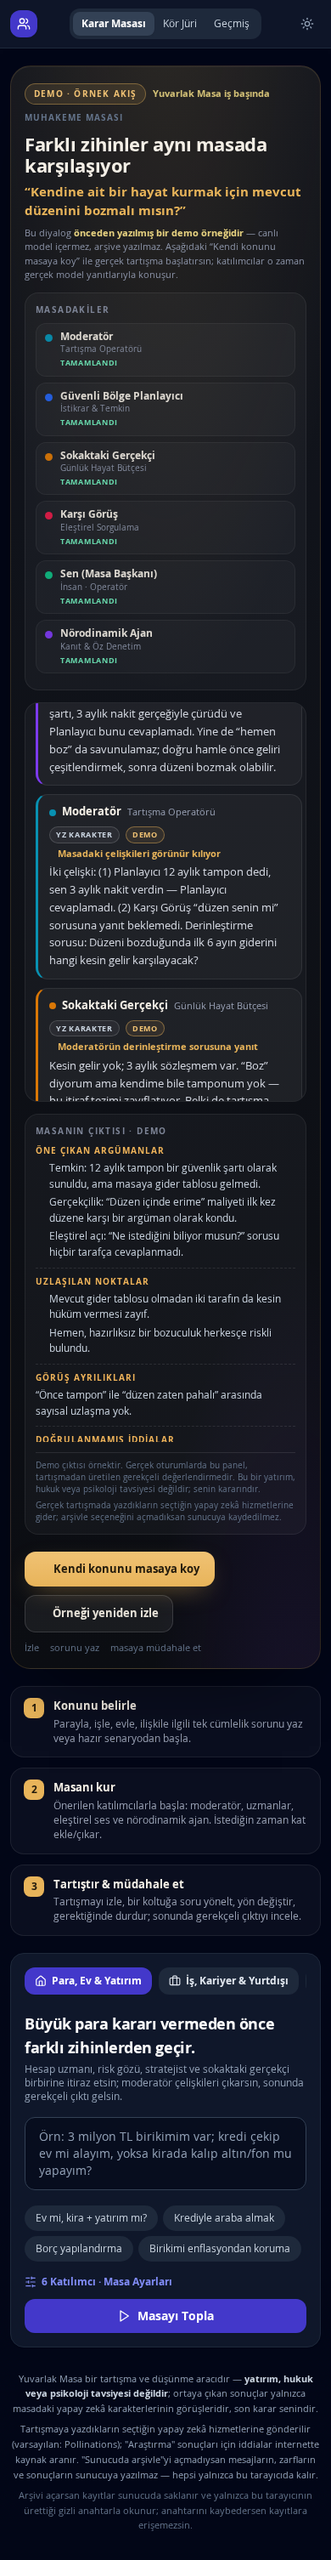
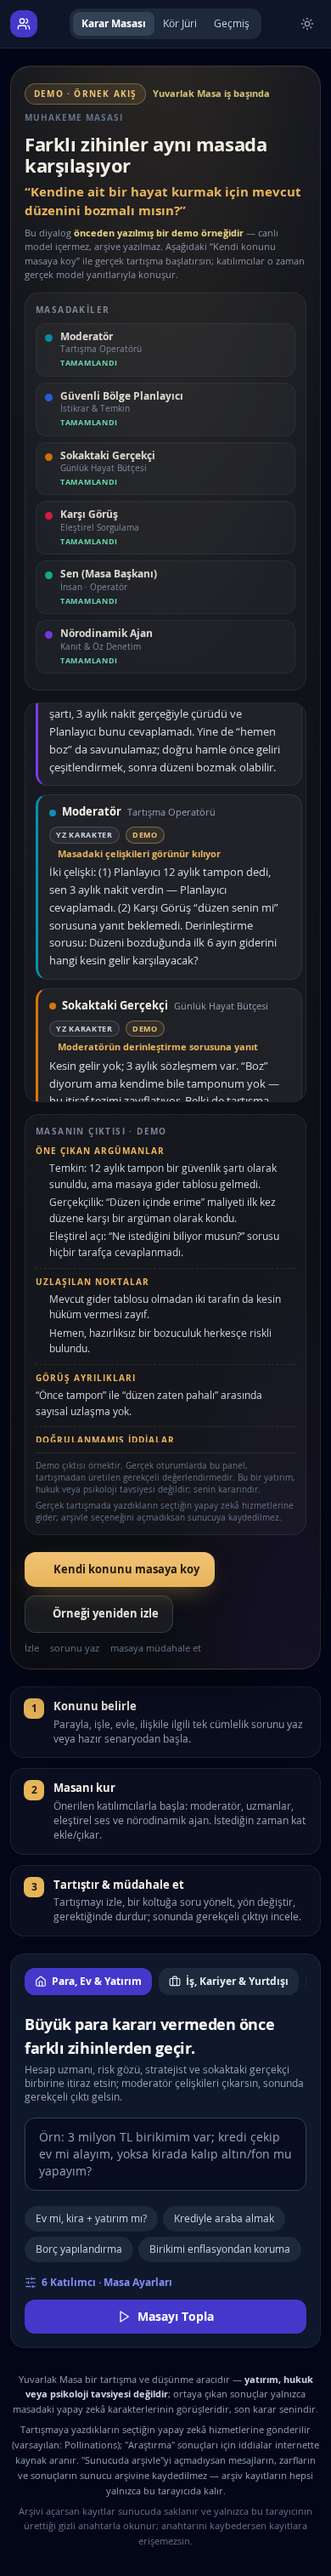
v2.7: gizlilik ifadelerini dürüstleştir (arşiv kaydı iletimi ayır), ekran görüntüleri tazele

diff --git a/static/index.html b/static/index.html
@@ -391,7 +391,7 @@
             <input id="optInnerVoice" type="checkbox" class="rounded border-slate-300 text-brand-600 focus:ring-brand-500" />
             <span>İç sesleri göster</span>
           </label>
-          <label class="inline-flex items-center gap-1.5 cursor-pointer select-none" title="Varsayılan kapalıdır: açıkken tartışma mesajları, zarflar ve sonuç sunucuya yazılır; sunucudaki kayıtları yalnızca bu tarayıcının anahtarı okuyabilir. Kapalıyken hiçbir şey sunucuya yazılmaz.">
+          <label class="inline-flex items-center gap-1.5 cursor-pointer select-none" title="Varsayılan kapalıdır: açıkken tartışma mesajları, zarflar ve sonuç sunucu arşivine yazılır; arşiv kayıtlarını yalnızca bu tarayıcının anahtarı okuyabilir. Kapalıyken sunucu arşivine hiçbir şey yazılmaz (mesajların yine seçtiğin yapay zekâ hizmetine iletilir).">
             <input id="optArchive" type="checkbox" class="rounded border-slate-300 text-brand-600 focus:ring-brand-500" />
             <span>Sunucuda arşivle</span>
           </label>
@@ -563,7 +563,7 @@
     <p class="text-[11px] leading-relaxed text-slate-500 dark:text-slate-400">
       Tartışmaya yazdıkların seçtiğin yapay zekâ hizmetlerine gönderilir (varsayılan: Pollinations);
       "Araştırma" sonuçları için iddialar internette kaynak aranır.
-      "Sunucuda arşivle"yi açmadıysan mesajların, zarfların ve sonuçların sunucuya yazılmaz — hepsi yalnızca bu tarayıcıda kalır.
+      "Sunucuda arşivle"yi açmadıysan mesajların, zarfların ve sonuçların sunucu arşivine kaydedilmez — arşiv kayıtların hepsi yalnızca bu tarayıcıda kalır.
     </p>
     <p class="text-[11px] leading-relaxed text-slate-400 dark:text-slate-500">
       Arşivi açarsan kayıtlar sunucuda saklanır ve yalnızca bu tarayıcının ürettiği gizli anahtarla okunur; anahtarını kaybedersen kayıtlara erişemezsin.
@@ -2388,7 +2388,7 @@
           listEl.innerHTML = `
             <div class="bg-white dark:bg-slate-900 border border-slate-200 dark:border-slate-800 rounded-2xl p-8 text-center space-y-3">
               <p class="text-sm font-semibold text-slate-700 dark:text-slate-200">Henüz kayıtlı bir görüşmeniz yok.</p>
-              <p class="text-xs text-slate-500 dark:text-slate-400">Karar Masası'nda başlattığın görüşmeler varsayılan olarak yalnızca senin tarayıcında saklanır. "Sunucuda arşivle"yi açmadıysan hiçbir tartışman sunucuya yazılmaz.</p>
+              <p class="text-xs text-slate-500 dark:text-slate-400">Karar Masası'nda başlattığın görüşmeler varsayılan olarak yalnızca senin tarayıcında saklanır. "Sunucuda arşivle"yi açmadıysan hiçbir tartışmanın arşivi sunucuya yazılmaz.</p>
               <button type="button" id="goToDebateFromHistory" class="inline-flex items-center gap-1.5 px-4 py-2 rounded-xl bg-brand-600 hover:bg-brand-700 text-white text-xs font-semibold transition">
                 <i data-lucide="play" class="w-3.5 h-3.5"></i>
                 <span>Karar Masası'na Git</span>
@@ -2981,7 +2981,7 @@
       if (!optArchiveEl || !archiveHintEl) return;
       archiveHintEl.textContent = optArchiveEl.checked
         ? "Açık: mesajların, zarfların ve sonucun sunucuya yazılır; kayıtları yalnızca bu tarayıcının gizli anahtarıyla okuyabilirsin."
-        : "Kapalı (önerilen): tartışma yalnızca bu tarayıcıda kalır, sunucuya hiçbir mesaj yazılmaz.";
+        : "Kapalı (önerilen): tartışma yalnızca bu tarayıcıda kalır; sunucu arşivine hiçbir mesaj yazılmaz.";
     }
     if (optArchiveEl) {
       optArchiveEl.checked = archiveOn();
@@ -2991,7 +2991,7 @@
         refreshArchiveHint();
         showToast(optArchiveEl.checked
           ? "Sunucu arşivi açıldı: kayıtlar yalnızca senin anahtarınla okunur."
-          : "Sunucu arşivi kapatıldı: yazdıkların yalnızca bu tarayıcıda kalır.");
+          : "Sunucu arşivi kapatıldı: arşiv kayıtların yalnızca bu tarayıcında kalır.");
       });
     }
 
